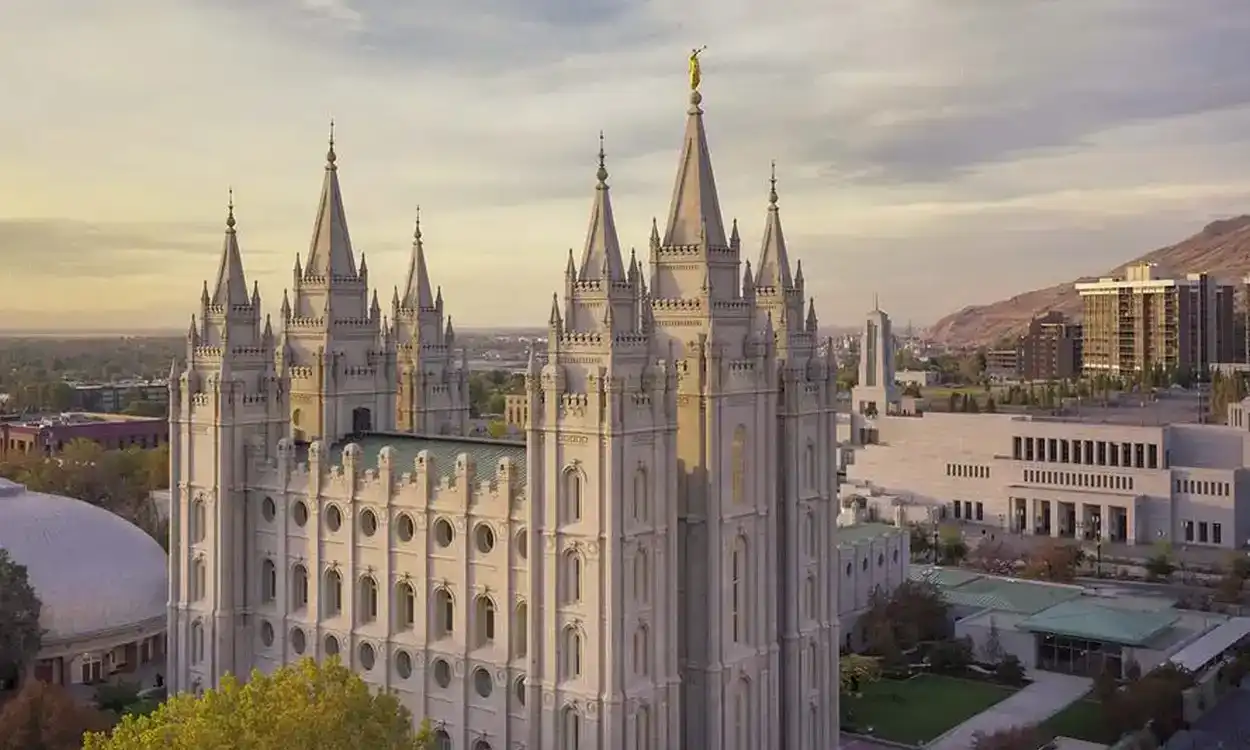
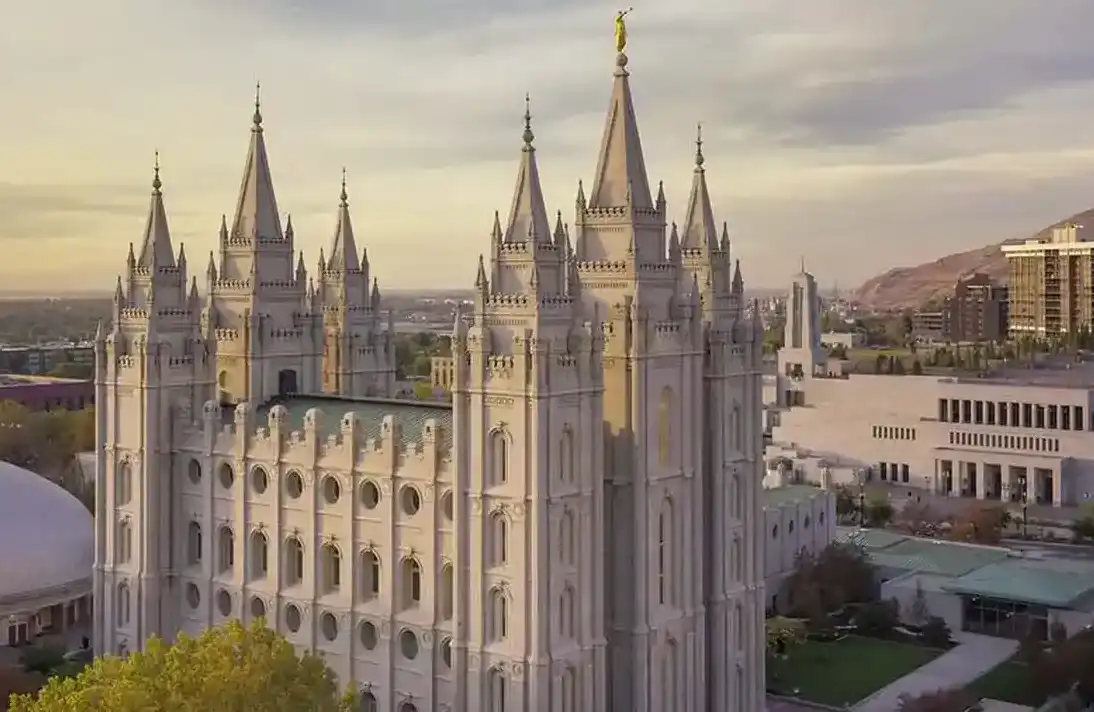
Final project finished

diff --git a/chamber/index.html b/chamber/index.html
@@ -55,29 +55,25 @@
         <div class="scroll-content">
   
           <div>
-            <p><a href="join.html">Join us and explore more</a></p>
-            <p><img src="images/events-b.jpeg " alt="First Event"></p>
+            <p><a href="join.html">Explore</a></p>
+            <p><img src="images/events-b.webp " alt="First Event"></p>
           </div>
           <div>
-            <p><a href="join.html">Join us and explore more</a></p>
+            <p><a href="join.html">Explore</a></p>
             <p><img src="images/events-c.webp" alt="Second Event"></p>
           </div>
           <div>
-            <p><a href="join.html">Join us and explore more</a></p>
-            <p><img src="images/events-d.jpeg" alt="Third Event"></p>
+            <p><a href="join.html">Explore</a></p>
+            <p><img src="images/events-d.webp" alt="Third Event"></p>
           </div>
           <div>
-            <p><a href="join.html">Join us and explore more</a></p>
-            <p><img src="images/image-e.jpg" alt="Fourth Event"></p>
+            <p><a href="join.html">Explore</a></p>
+            <p><img src="images/image-e.webp" alt="Fourth Event"></p>
           </div>
           <div>
-            <p><a href="join.html">Join us and explore more</a></p>
-            <p><img src="images/image-a.jpg " alt="Fifth"></p>
+            <p><a href="join.html">Explore</a></p>
+            <p><img src="images/image-a.webp " alt="Fifth"></p>
           </div>
-            <div>
-              <p><a href="join.html">Join us and explore more</a></p>
-              <p><img src="images/image-d.jpg " alt="sixth Event"></p>
-            </div>
   
           </div>
        </div>
@@ -89,52 +85,52 @@
         <div class="main-div-testimonials">
           <div class="testimonial-scroll-content">
             <div>
-              <p><img src="images/testimonial-d.jpg" alt="testimonial image"></p>
+              <p><img src="images/testimonial-d.webp" alt="testimonial image"></p>
               <p>WebP is a modern image format that provides superior lossless and lossy compression for images on the web</p>
             </div>
             <div>
-              <p><img src="images/testimonial-e.jpg" alt="testimonial image"></p>
+              <p><img src="images/testimonial-e.webp" alt="testimonial image"></p>
               <p>WebP is a modern image format that provides superior lossless and lossy compression for images on the web</p>
             </div>
             <div>
-              <p><img src="images/testimonial-d.jpg" alt="testimonial image"></p>
+              <p><img src="images/testimonial-d.webp" alt="testimonial image"></p>
               <p>WebP is a modern image format that provides superior lossless and lossy compression for images on the web</p>
             </div>
   
             <div>
-              <p><img src="images/testimonial-d.jpg" alt="testimonial image"></p>
+              <p><img src="images/testimonial-d.webp" alt="testimonial image"></p>
               <p>WebP is a modern image format that provides superior lossless and lossy compression for images on the web</p>
             </div>
             <div>
-              <p><img src="images/testimonial-d.jpg" alt="testimonial image"></p>
+              <p><img src="images/testimonial-d.webp" alt="testimonial image"></p>
               <p>WebP is a modern image format that provides superior lossless and lossy compression for images on the web</p>
             </div>
             <div>
-              <p><img src="images/testimonial-d.jpg" alt="testimonial image"></p>
+              <p><img src="images/testimonial-d.webp" alt="testimonial image"></p>
               <p>WebP is a modern image format that provides superior lossless and lossy compression for images on the web</p>
             </div>
             <div>
-              <p><img src="images/testimonial-e.jpg" alt="testimonial image"></p>
+              <p><img src="images/testimonial-e.webp" alt="testimonial image"></p>
               <p>WebP is a modern image format that provides superior lossless and lossy compression for images on the web</p>
             </div>
             <div>
-              <p><img src="images/testimonial-e.jpg" alt="testimonial image"></p>
+              <p><img src="images/testimonial-e.webp" alt="testimonial image"></p>
               <p>WebP is a modern image format that provides superior lossless and lossy compression for images on the web</p>
             </div>
             <div>
-              <p><img src="images/testimonial-e.jpg" alt="testimonial image"></p>
+              <p><img src="images/testimonial-e.webp" alt="testimonial image"></p>
               <p>WebP is a modern image format that provides superior lossless and lossy compression for images on the web</p>
             </div>
             <div>
-              <p><img src="images/testimonial-d.jpg" alt="testimonial image"></p>
+              <p><img src="images/testimonial-d.webp" alt="testimonial image"></p>
               <p>WebP is a modern image format that provides superior lossless and lossy compression for images on the web</p>
             </div>
             <div>
-              <p><img src="images/testimonial-d.jpg" alt="testimonial image"></p>
+              <p><img src="images/testimonial-d.webp" alt="testimonial image"></p>
               <p>WebP is a modern image format that provides superior lossless and lossy compression for images on the web</p>
             </div>
             <div>
-              <p><img src="images/testimonial-d.jpg" alt="testimonial image"></p>
+              <p><img src="images/testimonial-d.webp" alt="testimonial image"></p>
               <p>WebP is a modern image format that provides superior lossless and lossy compression for images on the web</p>
             </div>
           </div>
@@ -200,9 +196,9 @@
       <div class="div-b"><a href="index.html">Home</a></div>
       <div class="div-c"><a href="join.html">Join</a></div>
       <div class="social-m">
-        <div class="social-media sm-a"><a href="https://wa.me//+242068093411"><img src="images/whatsapp-a.png" alt="WhatsApp-logo"></a></div>
-        <div class="social-media sm-b"><a href="https://www.youtube.com/@zidreynkounkou6834"><img src="images/youtube.png" alt="Youtube-logo"></a></div>
-        <div class="social-media sm-c" ><a href="https://www.facebook.com/search/top/?q=Zidrey%20Nkounkou"><img src="images/facebook.png" alt="Facebook-logo"></a></div>
+        <div class="social-media sm-a"><a href="https://wa.me//+242068093411"><img src="images/whatsapp-a.webp" alt="WhatsApp-logo"></a></div>
+        <div class="social-media sm-b"><a href="https://www.youtube.com/@zidreynkounkou6834"><img src="images/youtube.webp" alt="Youtube-logo"></a></div>
+        <div class="social-media sm-c" ><a href="https://www.facebook.com/search/top/?q=Zidrey%20Nkounkou"><img src="images/facebook.webp" alt="Facebook-logo"></a></div>
       </div>
     </div>
     <div id="lastModified"></div>

diff --git a/chamber/discover.html b/chamber/discover.html
@@ -46,7 +46,7 @@
         <img src="images/d-Optimized-benjamin-davies-Zm2n2O7Fph4-unsplash.webp" alt="Optimized-benjamin-davies" loading="lazy">
         <img src="images/e-st-george-temple-lds-947137-wallpaper.webp" alt="St-george-temple" loading="lazy">
         <img src="images/f-st-george-utah-temple-clouds-922212-wallpaper.webp" alt="St-george-utah-temple-clouds" loading="lazy">
-        <img src="images/c-slctemple7.webp" alt="Salt Lake Temple" loading="lazy">
+        <img src="images/dave-hoefler-NpMl97aTmco-unsplash.webp" alt="Dave-hoefler" loading="lazy">
       </div>
 
       <div class="sidebar">
@@ -82,32 +82,32 @@
         <div class="art-a">
           <div class="art-hd">The Wonders of Nature: Exploring the Beauty Around Us</div>
           <p class="art-bd">Nature, with its infinite beauty and marvels, never fails to captivate our hearts and minds. From the grandeur of towering mountains to the tranquility of a serene lake, the world around us is a canvas painted with breathtaking landscapes. In this article, we embark on a journey to explore the wonders of nature that surround us every day.</p>
-          <div class="learn-more"><a href="#">Learn More</a></div>
+          <div class="learn-more"><a href="join.html">Learn More</a></div>
         </div>
   
         <div class="art-b">
           <div class="art-hd">Embracing the Great Outdoors</div>
           <p class="art-bd">There is a profound sense of calm that envelops us when we immerse ourselves in nature. Whether it's a leisurely stroll through a lush forest or a hike to the summit of a mountain, the great outdoors offers a respite from the hustle and bustle of modern life. The fresh air, the soothing sound of rustling leaves, and the vibrant colors of blooming flowers create an atmosphere of tranquility and rejuvenation.</p>
-          <div class="learn-more"><a href="#">Learn More</a></div>
+          <div class="learn-more"><a href="join.html">Learn More</a></div>
         </div>
   
         <div class="art-c">
           <div class="art-hd">Majestic Mountains: A Testament to Earth's divsection</div>
           <p class="art-bd">Mountains, with their towering peaks and rugged landscapes, stand as silent sentinels, reminding us of the Earth's raw power and resilience. Each mountain range tells a unique geological story, shaped by centuries of tectonic forces and weathering. The sight of a sunrise or sunset over the mountains is a spectacle that leaves an indelible mark on our memories, a testament to the awe-inspiring beauty of our planet.</p>
-          <div class="learn-more"><a href="#">Learn More</a></div>
+          <div class="learn-more"><a href="join.html">Learn More</a></div>
           </div>
   
         <div class="art-d">
           <div class="art-hd">Mesmerizing Waterscapes: Oceans, Rivers, and divsection</div>
           <p class="art-bd">Water, the source of life, manifests its beauty in various forms. Oceans stretch across vast horizons, their rhythmic waves echoing the heartbeat of the planet. Rivers carve through landscapes, creating valleys and nourishing ecosystems. Lakes, with their reflective surfaces, mirror the surrounding beauty and offer a tranquil retreat for both wildlife and wanderers alike.</p>
-          <div class="learn-more"><a href="#">Learn More</a></div>
+          <div class="learn-more"><a href="join.html">Learn More</a></div>
         </div>
   
         <div class="art-e">
           <div class="art-hd">Preserving Nature for Future Generadivsection</div>
           <p class="art-bd">As we revel in the splendor of nature, it becomes our responsibility to preserve and protect it for future generations. Climate change, deforestation, and pollution pose significant threats to the delicate balance of ecosystems. Through sustainable practices, conservation efforts, and fostering a deep appreciation for the environment, we can ensure that the wonders of nature continue to inspire and enchant for years to come.</p>
             <p class="nature-cl">In conclusion, nature's beauty is a gift that surrounds us, inviting us to explore, appreciate, and protect the world we call home. Let us embrace the wonders of nature with open hearts, recognizing the profound impact it has on our well-being and the vitality of the planet we share</p>
-          <div class="learn-more"><a href="#">Learn More</a></div>
+          <div class="learn-more"><a href="join.html">Learn More</a></div>
         </div>
 
       </div>
@@ -123,9 +123,9 @@
       <div class="div-b"><a href="index.html">Home</a></div>
       <div class="div-c"><a href="join.html">Join</a></div>
       <div class="social-m">
-        <div class="social-media sm-a"><a href="#"><img src="images/whatsapp-a.png" alt="WhatsApp-logo"></a></div>
-        <div class="social-media sm-b"><a href="#"><img src="images/youtube.png" alt="Youtube-logo"></a></div>
-        <div class="social-media sm-c" ><a href="#"><img src="images/facebook.png" alt="Facebook-logo"></a></div>
+        <div class="social-media sm-a"><a href="https://wa.me//+242068093411"><img src="images/whatsapp-a.webp" alt="WhatsApp-logo"></a></div>
+        <div class="social-media sm-b"><a href="https://www.youtube.com/"><img src="images/youtube.webp" alt="Youtube-logo"></a></div>
+        <div class="social-media sm-c" ><a href="https://www.facebook.com/search/top/?q=Zidrey%20Nkounkou"><img src="images/facebook.webp" alt="Facebook-logo"></a></div>
       </div>
     </div>
     <div id="lastModified"></div>

diff --git a/chamber/join.html b/chamber/join.html
@@ -156,9 +156,9 @@
       <div class="div-b"><a href="index.html">Home</a></div>
       <div class="div-c"><a href="join.html">Join</a></div>
       <div class="social-m">
-        <div class="social-media sm-a"><a href="#"><img src="images/whatsapp-a.png" alt="WhatsApp-logo"></a></div>
-        <div class="social-media sm-b"><a href="#"><img src="images/youtube.png" alt="Youtube-logo"></a></div>
-        <div class="social-media sm-c" ><a href="#"><img src="images/facebook.png" alt="Facebook-logo"></a></div>
+        <div class="social-media sm-a"><a href="https://wa.me//+242068093411"><img src="images/whatsapp-a.webp" alt="WhatsApp-logo"></a></div>
+        <div class="social-media sm-b"><a href="https://www.youtube.com/"><img src="images/youtube.webp" alt="Youtube-logo"></a></div>
+        <div class="social-media sm-c" ><a href="https://www.facebook.com/search/top/?q=Zidrey%20Nkounkou"><img src="images/facebook.webp" alt="Facebook-logo"></a></div>
       </div>
     </div>
     <div id="lastModified"></div>

diff --git a/chamber/directory.html b/chamber/directory.html
@@ -53,9 +53,9 @@
       <div class="div-b"><a href="index.html">Home</a></div>
       <div class="div-c"><a href="join.html">Join</a></div>
       <div class="social-m">
-        <div class="social-media sm-a"><a href="#"><img src="images/whatsapp-a.png" alt="WhatsApp-logo"></a></div>
-        <div class="social-media sm-b"><a href="#"><img src="images/youtube.png" alt="Youtube-logo"></a></div>
-        <div class="social-media sm-c" ><a href="#"><img src="images/facebook.png" alt="Facebook-logo"></a></div>
+        <div class="social-media sm-a"><a href="https://wa.me//+242068093411"><img src="images/whatsapp-a.webp" alt="WhatsApp-logo"></a></div>
+        <div class="social-media sm-b"><a href="https://www.youtube.com/"><img src="images/youtube.webp" alt="Youtube-logo"></a></div>
+        <div class="social-media sm-c" ><a href="https://www.facebook.com/search/top/?q=Zidrey%20Nkounkou"><img src="images/facebook.webp" alt="Facebook-logo"></a></div>
       </div>
     </div>
     <div id="lastModified"></div>

diff --git a/chamber/styles/base.css b/chamber/styles/base.css
@@ -895,9 +895,9 @@ td:hover, th:hover {
   color: white;
   text-align: center;
   font-size: 18px;
-  margin-bottom: 12px;
   padding: 20px;
   border-radius: 6px;
+  margin: 10px 10px 6px 10px;
 }
 
 .art-bd {
@@ -906,6 +906,7 @@ td:hover, th:hover {
   font-size: 17px;
   padding: 24px;
   line-height: 2;
+  border-radius: 10px;
 }
 
 .nature-cl {

diff --git a/chamber/styles/larger.css b/chamber/styles/larger.css
@@ -230,7 +230,7 @@ nav a {
 /*----------------------Spotlight-------------------------*/
 
 .spotTitle {
-  margin: 0 20px 20px 20px;
+  margin: -20px 20px 20px 20px;
   font-size: 28px;
 }
 #spotlights {
